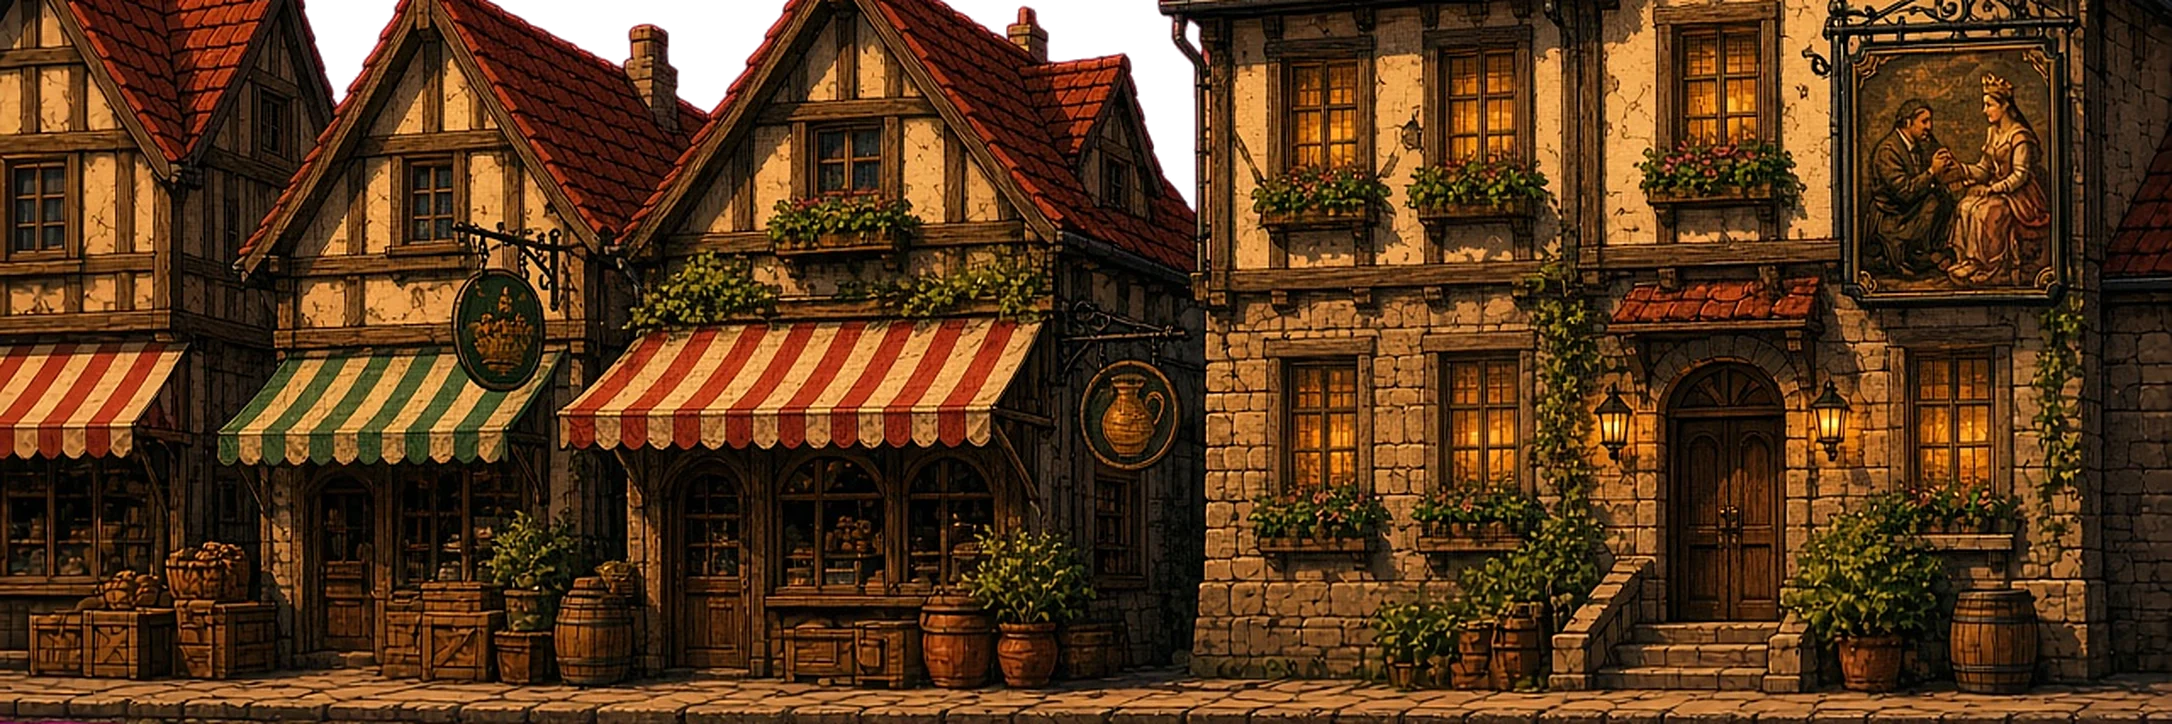
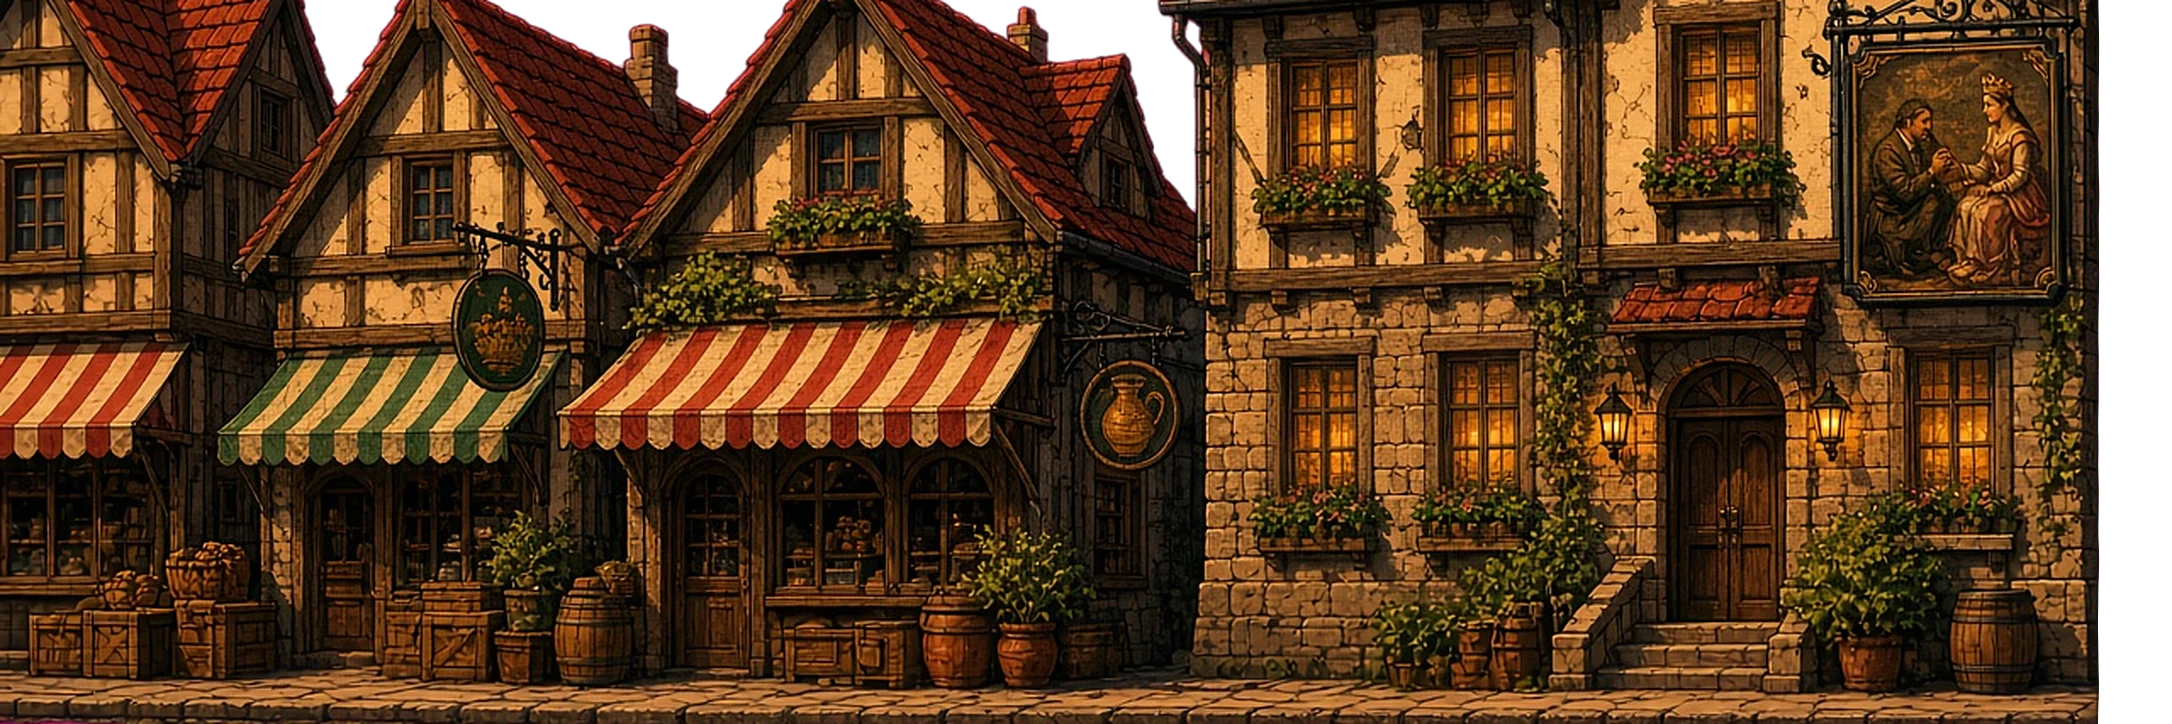
Stage 4: painted cultist sheet (archer reskin) + Stage 3 mid plate corner join
- tools/stage4/reskin_cultist.py builds assets/bg4/s4cult.webp from the painted archer atlas: bow cut out,
  oxblood/black Darkfriend robes, green charm, chant rings and bolt glow painted in the procedural colours
- queueStage4 loads it under s4cult (painter stays the fallback); actors scale taller cells to the painter footprint
- bg3-mid ends on the inn's corner, bg3-mid2 sits 80 px under it with a short feather and corner shade
- ART_STATUS + tests updated (Draghkar sheet and portrait remain code-drawn)

Changed region(s): [[0.9563, 0.0, 1.0, 1.0]]

diff --git a/src/stage4-actors.js b/src/stage4-actors.js
@@ -26,13 +26,15 @@ function body(e, scene, key, shadowW) {
   e.sprite.setDepth?.(1000 + e.y);
 }
 function aim(e, dir) { if (dir) { e.facing = dir; if (e.sprite) e.sprite.flipX = dir < 0; } }
-function paint(e, frameOf, scale) {
+// scale is for the painter's cell height (baseH); a painted sheet with taller cells is scaled to the same footprint.
+function paint(e, frameOf, scale, baseH) {
   if (!e.sprite) return;
   e.sprite.x = e.x; e.sprite.y = e.y - (e.z || 0);
   e.sprite.setDepth?.(1000 + e.y);
   e.sprite.setOrigin?.(0.5, 0.96);
-  e.sprite.setScale?.(scale);
   e.sprite.setFrame?.(frameOf(e.state, e.st || 0));
+  const fh = e.sprite.frame?.height;
+  e.sprite.setScale?.(fh > baseH ? scale * baseH / fh : scale);
   e.sprite.setLighting?.(true);
   const ash = e.state === 'defeated' || e.state === 'ash';
   e.sprite.setAlpha?.(ash ? Math.max(0, 1 - (e.st || 0) * 0.65) : 1);
@@ -63,7 +65,7 @@ export class CultistActor extends Cultist {
     this.scene.kit?.noteCult?.(this, prev);
   }
   physics(dt) { slide(this, dt, this.state === 'flee'); }
-  sync() { paint(this, cultFrame, 1.2); }
+  sync() { paint(this, cultFrame, 1.2, 190); }
   destroy() { this.sprite?.destroy?.(); this.shadow?.destroy?.(); this.alive = false; this.state = 'gone'; this.gone = true; }
   die() { this.alive = false; this.gone = true; this.state = 'ko'; }
 }
@@ -154,7 +156,7 @@ export class DraghkarActor extends Draghkar {
     this.scene.kit?.noteBoss?.(this, prev);
   }
   physics(dt) { slide(this, dt, this.state === 'swoop_tell' || this.state === 'swoop_dive'); }
-  sync() { paint(this, dragFrame, 1.62); }
+  sync() { paint(this, dragFrame, 1.62, 250); }
   dispose() { croon(false); super.dispose(); }
   destroy() { this.sprite?.destroy?.(); this.shadow?.destroy?.(); this.dispose(); }
   die() { if (this.alive) this.defeat(); this.gone = true; }

diff --git a/src/stage4.js b/src/stage4.js
@@ -38,6 +38,8 @@ export function queueStage4(scene) {
   img('bg4far', 'assets/bg4/bg4-far.jpg'); img('bg4mid', 'assets/bg4/bg4-mid.webp'); img('bg4mid2', 'assets/bg4/bg4-mid2.webp');
   for (const n of ['', '2', '3']) img('bg4floor' + n, `assets/bg4/bg4-floor${n}.jpg`);
   for (const n of [1, 2, 3]) img('story4p' + n, `assets/story/story4_panel_${n}.jpg`);
+  // Painted cultist sheet (tools/stage4/reskin_cultist.py): same 8 poses as the painter, 340x370 cells.
+  if (!has('s4cult')) L.spritesheet('s4cult', 'assets/bg4/s4cult.webp', { frameWidth: 340, frameHeight: 370 });
   if (scene.cache.json.get('cutthroat.A')) queueCharPages(scene, ['cutthroat']);
   else {
     L.json('cutthroat.A', 'assets/stage3/chars/cutthroat.anims.json');

diff --git a/tools/stage4/reskin_cultist.py b/tools/stage4/reskin_cultist.py
@@ -1,0 +1,238 @@
+#!/usr/bin/env python3
+"""Build the Stage 4 Darkfriend cultist sheet (assets/bg4/s4cult.webp) from the painted Whitecloak archer atlas.
+
+Same approach as tools/stage3/reskin_chars.py: existing painted frames, recoloured region by region, so the
+figure keeps its painted folds, rims and proportions. Per frame:
+  1. the bow and bowstring are cut out (thin structures removed by a 5 px opening, grown along the bow wood),
+     pixels inside the body silhouette are inpainted from the surrounding paint, the rest become transparent;
+  2. recolour: black hood, dark oxblood robe whose shadows fall to black, near-black leathers,
+     the Whitecloak sun badge becomes the cultist's sickly green charm, the face sinks into the hood shadow;
+  3. the gameplay tells the procedural sheet carried are painted on top in the same colours:
+     charm glow (every standing pose), rune rings at the feet (chant), glowing hand and orb (bolt).
+
+Output keeps the procedural frame order (cultFrame in src/stage4-art-cast.js):
+  0 walk A, 1 walk B, 2 chant (kneel), 3 bolt, 4 shove, 5 hurt, 6 down, 7 flee
+on a uniform CELL_W x CELL_H grid; the actor scales it so the cell height maps to the old 190 px cell.
+Run from the repo root:  python3 tools/stage4/reskin_cultist.py
+"""
+import json, os, sys
+import numpy as np
+import cv2
+from PIL import Image
+from scipy import ndimage as ndi
+
+sys.path.insert(0, os.path.join(os.path.dirname(os.path.abspath(__file__)), '..', 'stage3'))
+import reskin_lib as RL
+
+SRC = 'assets/chars'
+OUT = 'assets/bg4/s4cult.webp'
+CELL_W, CELL_H = 340, 370
+BASE_Y = 327            # archer baseline in its 558x347 source canvas
+FOOT = round(CELL_H * 0.96)
+# (source frame, mirror). The archer faces left; the cultist sheet faces right like the procedural one.
+# Flee runs away from the player while the actor keeps facing him, so that one stays unmirrored.
+POSES = [('walk_00', 1), ('walk_02', 1), ('getup_00', 1), ('shoot_02', 1), ('shoot_04', 1), ('hurt_00', 1), ('knockdown_02', 1), ('flee_01', 0)]
+# Hand-placed clean-up in the (mirrored) source canvas, measured on 3x zooms:
+#  ERASE  quiver fletching that sticks out above the shoulder (box x0,y0,x1,y1 -> transparent)
+#  STROKE bow wood that crosses the body where the thin-structure pass can't see it (polyline, width -> inpaint)
+ERASE = {
+    'walk_00': [(222, 86, 250, 112)], 'walk_02': [(218, 86, 247, 110)], 'getup_00': [(266, 170, 292, 190)],
+    'shoot_02': [(212, 96, 236, 118)], 'shoot_04': [(212, 124, 236, 138)], 'flee_01': [(265, 128, 290, 146)],
+    'knockdown_02': [(232, 319, 304, 340)],
+}
+STROKE = {
+    'getup_00': [([(236, 212), (232, 230), (233, 250), (238, 270), (246, 293)], 9)],
+}
+
+
+def load_frames():
+    anims = json.load(open(f'{SRC}/archer.anims.json'))
+    out = {}
+    for p in anims['pages']:
+        d = json.load(open(f'{SRC}/{p}.json'))
+        im = np.asarray(Image.open(f'{SRC}/{p}.webp').convert('RGBA'))
+        for name, f in d['frames'].items():
+            r, ss, S = f['frame'], f['spriteSourceSize'], f['sourceSize']
+            c = np.zeros((S['h'], S['w'], 4), np.uint8)
+            c[ss['y']:ss['y'] + r['h'], ss['x']:ss['x'] + r['w']] = im[r['y']:r['y'] + r['h'], r['x']:r['x'] + r['w']]
+            out[name] = c
+    return out
+
+
+def disk(r):
+    return cv2.getStructuringElement(cv2.MORPH_ELLIPSE, (2 * r + 1, 2 * r + 1))
+
+
+def debow(a, name=''):
+    """Remove the bow and string. Returns (rgba, removed_mask)."""
+    a = a.copy()
+    for x0, y0, x1, y1 in ERASE.get(name, []):
+        a[y0:y1, x0:x1, 3] = 0
+    lab, L, A, B, C, h, tex = RL.features(a)
+    al = a[..., 3] > 96
+    body = cv2.morphologyEx(al.astype(np.uint8), cv2.MORPH_OPEN, disk(5)) > 0
+    thin = al & ~body
+    # cloak tatters and pale fingers are thin too: keep low-chroma light pixels and skin
+    bowish = (C > 12) | (L < 28)
+    seed = thin & bowish
+    lbl, n = ndi.label(seed, structure=np.ones((3, 3)))
+    sizes = ndi.sum(seed, lbl, range(1, n + 1))
+    seed = np.isin(lbl, 1 + np.where(sizes >= 60)[0])
+    # grow along the wood where it crosses the body (bow-coloured or outline pixels only)
+    wood = al & (((C > 20) & (h > 38) & (h < 66) & (L > 22) & (L < 68)) | (L < 18))
+    grow = seed.copy()
+    for _ in range(9):
+        grow = ndi.binary_dilation(grow, structure=np.ones((3, 3))) & (wood | seed)
+    grow |= ndi.binary_dilation(seed, iterations=1) & al
+    for pts, wdt in STROKE.get(name, []):
+        m = np.zeros(al.shape, np.uint8)
+        cv2.polylines(m, [np.array(pts, np.int32)], False, 1, wdt)
+        grow |= (m > 0) & al
+    res = a.copy()
+    inside = grow & ndi.binary_dilation(body, iterations=1)
+
+    outside = grow & ~inside
+    res[outside, 3] = 0
+    if inside.any():
+        bgr = cv2.cvtColor(res[..., :3], cv2.COLOR_RGB2BGR)
+        fix = cv2.inpaint(bgr, ndi.binary_dilation(inside, iterations=1).astype(np.uint8), 5, cv2.INPAINT_TELEA)
+        res[..., :3] = cv2.cvtColor(fix, cv2.COLOR_BGR2RGB)
+    # drop strays no longer attached to the figure
+    al2 = res[..., 3] > 40
+    lbl, n = ndi.label(al2, structure=np.ones((3, 3)))
+    if n > 1:
+        sizes = ndi.sum(al2, lbl, range(1, n + 1))
+        keep = 1 + int(np.argmax(sizes))
+        small = (lbl > 0) & (lbl != keep) & np.isin(lbl, 1 + np.where(sizes < 400)[0])
+        res[small, 3] = 0
+    # soften the cut edge a touch
+    cut = ndi.binary_dilation(outside, iterations=1) & (res[..., 3] > 0)
+    res[cut, 3] = (res[cut, 3] * 0.6).astype(np.uint8)
+    return res, grow
+
+
+def recolor(a):
+    k = RL.classes(a)
+    L = k['L']
+    hood = RL.hood_mask(k['face'], a[..., 3])
+    for n in ('cloth', 'mail', 'leather', 'gold'):
+        k[n] = k[n] * (1 - hood)
+    # only the badge and clasp on the chest turn into the charm; olive cloth lower down stays leather-dark
+    ys = np.where(a[..., 3].max(1) > 60)[0]
+    if len(ys):
+        cut = int(ys[0] + 0.42 * (ys[-1] - ys[0]))
+        g = k['gold'] > 0.4; g[cut:] = False
+        lbl, n = ndi.label(g)
+        near = np.zeros_like(g)
+        if n:
+            sizes = ndi.sum(g, lbl, range(1, n + 1))
+            near = ndi.binary_dilation(lbl == 1 + int(np.argmax(sizes)), iterations=14)
+        nf = cv2.GaussianBlur(near.astype(np.float32), (0, 0), 1.5)
+        low = k['gold'] * (1 - nf)
+        k['gold'] = k['gold'] - low; k['leather'] = k['leather'] + low
+    # robe: the white cloak's lights become dark oxblood, its folds fall to black
+    t = np.clip((L - 30) / 65, 0, 1)
+    cloth = RL.lab_color(RL.tone(L, 20, 99, 4, 28, 1.25), 22, 2 + 25 * t ** 1.5)
+    mail = RL.lab_color(RL.tone(L, 10, 75, 3, 18), 20, 6)
+    leather = np.stack([RL.tone(L, 0, 80, 2, 24), k['a'] * 0.45 + 2, k['b'] * 0.3], -1)
+    gold = RL.lab_color(RL.tone(L, 30, 95, 70, 96), 118, 62)        # sun badge -> green charm (#c6ff6a family)
+    skin = np.stack([k['L'] * 0.72, k['a'] * 0.75, k['b'] * 0.7], -1)
+    hoodc = RL.lab_color(RL.tone(L, 10, 99, 3, 20, 1.1), 20, 4)
+    out = RL.blend([(k['cloth'], cloth), (k['mail'], mail), (k['leather'], leather), (k['gold'], gold), (k['skin'], skin), (hood, hoodc)])
+    res = a.copy(); res[..., :3] = RL.from_lab(out)
+    return res, k
+
+
+def add_glow(img, cx, cy, r, inner, outer_alpha=0.0, strength=1.0):
+    """Additive radial glow (premultiplied over straight alpha): brightens paint and adds a halo."""
+    H, W = img.shape[:2]
+    yy, xx = np.mgrid[:H, :W]
+    d = np.hypot(xx - cx, yy - cy) / r
+    w = np.clip(1 - d, 0, 1) ** 1.6 * strength
+    rgb = img[..., :3].astype(np.float32); al = img[..., 3:4].astype(np.float32) / 255
+    col = np.array(inner, np.float32)
+    pre = rgb * al + col * w[..., None]
+    na = np.clip(al[..., 0] + w * 0.85, 0, 1)
+    img[..., :3] = np.clip(pre / np.maximum(na[..., None], 1e-3), 0, 255).astype(np.uint8)
+    img[..., 3] = (na * 255).astype(np.uint8)
+
+
+def ring(img, cx, cy, rx, ry, col, width):
+    layer = np.zeros(img.shape[:2], np.uint8)
+    cv2.ellipse(layer, (int(cx), int(cy)), (int(rx), int(ry)), 0, 0, 360, 255, width, cv2.LINE_AA)
+    glow = cv2.GaussianBlur(layer, (0, 0), 3)
+    over(img, np.maximum(layer, (glow * 0.8).astype(np.uint8)), col)
+
+
+def over(img, mask, col):
+    m = mask.astype(np.float32)[..., None] / 255
+    al = img[..., 3:4].astype(np.float32) / 255
+    rgb = img[..., :3].astype(np.float32)
+    na = m + al * (1 - m)
+    out = (np.array(col, np.float32) * m + rgb * al * (1 - m)) / np.maximum(na, 1e-3)
+    img[..., :3] = np.clip(out, 0, 255).astype(np.uint8); img[..., 3] = (na[..., 0] * 255).astype(np.uint8)
+
+
+def badge_center(k):
+    g = (k['gold'] > 0.4)
+    lbl, n = ndi.label(g)
+    if not n: return None
+    sizes = ndi.sum(g, lbl, range(1, n + 1))
+    i = 1 + int(np.argmax(sizes))
+    if sizes[i - 1] < 15: return None
+    ys, xs = np.where(lbl == i)
+    return xs.mean(), ys.mean()
+
+
+def extreme_hand(a, k, side):
+    """Front-most skin pixel (the casting hand) in the upper body."""
+    sk = (k['C'] > 26) & (k['h'] < 62) & (k['L'] > 38) & (a[..., 3] > 128)
+    H = a.shape[0]
+    sk[int(H * 0.62):] = False
+    ys, xs = np.where(sk)
+    if not len(xs): return None
+    i = np.argmax(xs) if side > 0 else np.argmin(xs)
+    sel = np.abs(xs - xs[i]) < 10
+    return xs[sel].mean(), ys[sel].mean()
+
+
+def build(debug=None):
+    fr = load_frames()
+    sheet = np.zeros((CELL_H, CELL_W * len(POSES), 4), np.uint8)
+    dbg = []
+    for i, (name, mir) in enumerate(POSES):
+        a = fr['archer_' + name]
+        if mir: a = a[:, ::-1].copy()
+        a, grown = debow(a, name)
+        a, k = recolor(a)
+        bc = badge_center(k)
+        if i != 6 and bc:
+            add_glow(a, bc[0], bc[1], 17, (150, 255, 90), strength=0.75)
+        if i == 2:   # chant: rune rings on the ground in front of the knees (procedural: 28x9 and 16x5 at foot-6)
+            ys = np.where(a[..., 3].max(1) > 60)[0]; xs = np.where(a[..., 3].max(0) > 60)[0]
+            cx = (xs[0] + xs[-1]) / 2
+            ring(a, cx, BASE_Y - 9, 66, 15, (180, 255, 120), 3)
+            ring(a, cx, BASE_Y - 9, 38, 9, (200, 255, 150), 2)
+        if i == 3:   # bolt: glowing casting hand and orb (procedural '#d8ff8a' hands + orb)
+            hp = extreme_hand(a, k, 1)
+            if hp:
+                add_glow(a, hp[0] + 8, hp[1], 44, (170, 255, 110), strength=0.9)
+                add_glow(a, hp[0] + 8, hp[1], 22, (240, 255, 200), strength=1.0)
+                add_glow(a, hp[0] + 8, hp[1], 10, (255, 255, 240), strength=1.0)
+        H, W = a.shape[:2]
+        dx = CELL_W // 2 - W // 2
+        dy = FOOT - BASE_Y
+        cell = np.zeros((CELL_H, CELL_W, 4), np.uint8)
+        sy0, sx0 = max(0, -dy), max(0, -dx)
+        sy1, sx1 = min(H, CELL_H - dy), min(W, CELL_W - dx)
+        cell[sy0 + dy:sy1 + dy, sx0 + dx:sx1 + dx] = a[sy0:sy1, sx0:sx1]
+        lost = int((a[..., 3] > 40).sum() - (cell[..., 3] > 40).sum())
+        if lost > 0: print(f'warning: {name} clipped {lost} px', file=sys.stderr)
+        sheet[:, i * CELL_W:(i + 1) * CELL_W] = cell
+    Image.fromarray(sheet).save(OUT, 'WEBP', quality=90, method=6, exact=False)
+    print(OUT, sheet.shape, os.path.getsize(OUT))
+    return sheet
+
+
+if __name__ == '__main__':
+    build()

diff --git a/tools/stage3/process_bg3_plates.py b/tools/stage3/process_bg3_plates.py
@@ -8,7 +8,10 @@ art-in/bg3/ (file name = <plate>.src.jpg; the original sha256 is recorded in ART
   mid  (mid3a, mid3b): 3:1 band with the street / parapet on the bottom edge, flat magenta sky keyed to real
        alpha (big connected key regions only, soft alpha on a 4 px edge band, colour unmix + despill),
        premultiplied Lanczos to 2172x724 (plateScale and the torch coordinates in lights.json assume 2172).
-       mid3b's left 240 px sink into a cool shadow (smoothstep, opaque) so the mid3a -> mid3b cut reads as a gap.
+       The mid3a -> mid3b join is a building corner, not a plate edge: mid3a stops at the inn's corner
+       (x CORNER, the shadowed quoin; the neighbour's roof slope and wall beyond it are cut away), mid3b is
+       laid OVERLAP px under it (plates.json "overlap") with a 6 px alpha feather, and its first ~120 px of
+       roofs recede into the corner's shade, so the rooftops read as the view past the end of the street.
   floor (floor3a/b/c): horizontal light flattening, floor3a's vertical gutter cut out with a min-error seam,
        horizontal wrap made seamless with a min-error seam + tone ramp, then a periodic Lanczos resample
        to 1080x360.
@@ -97,6 +100,40 @@ def shade_left(im, width=240, floor=(0.30, 0.27, 0.36)):
     ramp = (t * t * (3 - 2 * t))[None, :, None]
     k = np.array(floor, np.float32)[None, None, :]
     a[:, :width, :3] *= k + (1 - k) * ramp
+    return Image.fromarray(np.clip(a + 0.5, 0, 255).astype(np.uint8), 'RGBA')
+
+CORNER = 2098                   # mid3a: right edge of the inn's corner quoin (dark band x ~2086..2098)
+FEATHER = 6                     # mid3b: alpha ramp under the corner
+OVERLAP = W - CORNER + FEATHER  # plates.json "overlap" (mid3b starts this many plate px left of mid3a's edge)
+
+def corner_cut(im, x=CORNER, line=2.0):
+    """mid3a ends on the inn's vertical corner (the shadowed quoin band): an anti-aliased edge inked with the
+    plates' dark cel outline, and the last few px of wall turning into the corner's shade."""
+    a = np.asarray(im).astype(np.float32)
+    h, w = a.shape[:2]
+    rng = np.random.default_rng(3)
+    # a painted corner is not ruler-straight: +-0.8 px wobble, smoothed over ~30 rows
+    wob = cv2.GaussianBlur(rng.uniform(-1, 1, (h, 1)).astype(np.float32), (1, 0), sigmaX=0.1, sigmaY=12)[:, 0]
+    edge = x + 0.8 * wob / max(1e-6, np.abs(wob).max())
+    d = edge[:, None] - np.arange(w)[None, :].astype(np.float32)     # > 0 inside the wall
+    a[:, :, 3] *= np.clip(d + 0.75, 0, 1)
+    ink = np.clip(1 - np.abs(d - line * 0.5) / line, 0, 1)
+    col = np.array([34, 24, 22], np.float32)
+    a[:, :, :3] = a[:, :, :3] * (1 - 0.8 * ink[..., None]) + col * 0.8 * ink[..., None]
+    sh = np.clip(1 - d / 12, 0, 1) * (d > 0)
+    a[:, :, :3] *= (1 - 0.22 * sh)[..., None]
+    return Image.fromarray(np.clip(a + 0.5, 0, 255).astype(np.uint8), 'RGBA')
+
+def corner_shade(im, width=150, floor=(0.58, 0.55, 0.66), feather=FEATHER):
+    """mid3b's left edge sits under mid3a's corner: a short alpha ramp (no hard plate edge at the AA line) and the
+    nearest roofs sink into the corner's cool shade (smoothstep over `width` px)."""
+    a = np.asarray(im).astype(np.float32)
+    t = np.clip(np.arange(width) / (width - 1), 0, 1)
+    ramp = (t * t * (3 - 2 * t))[None, :, None]
+    k = np.array(floor, np.float32)[None, None, :]
+    a[:, :width, :3] *= k + (1 - k) * ramp
+    f = np.clip((np.arange(feather) + 0.5) / feather, 0, 1)
+    a[:, :feather, 3] *= f[None, :]
     return Image.fromarray(np.clip(a + 0.5, 0, 255).astype(np.uint8), 'RGBA')
 
 def mid(k, top, bottom):
@@ -247,8 +284,9 @@ if __name__ == '__main__':
     log = {}
     log['bg3-far-day.jpg'] = encode(far('bg3-far-day'), 'bg3-far-day.jpg')
     log['bg3-far-night.jpg'] = encode(far('bg3-far-night'), 'bg3-far-night.jpg')
-    log['bg3-mid.webp'] = encode(mid('bg3-mid', 277, 704), 'bg3-mid.webp')       # magenta strip below row 704
-    log['bg3-mid2.webp'] = encode(shade_left(mid('bg3-mid2', 276, 703)), 'bg3-mid2.webp')   # follows mid3a
+    log['bg3-mid.webp'] = encode(corner_cut(mid('bg3-mid', 277, 704)), 'bg3-mid.webp')       # magenta strip below row 704
+    log['bg3-mid2.webp'] = encode(corner_shade(mid('bg3-mid2', 276, 703)), 'bg3-mid2.webp')  # under mid3a's corner
+    log['overlap'] = OVERLAP
     im, info = floor('bg3-floor', gutter=(610, 670))                              # gutter at x ~615..668
     log['bg3-floor.jpg'] = {**encode(im, 'bg3-floor.jpg'), **info}
     im, info = floor('bg3-floor2', rows='middle')
